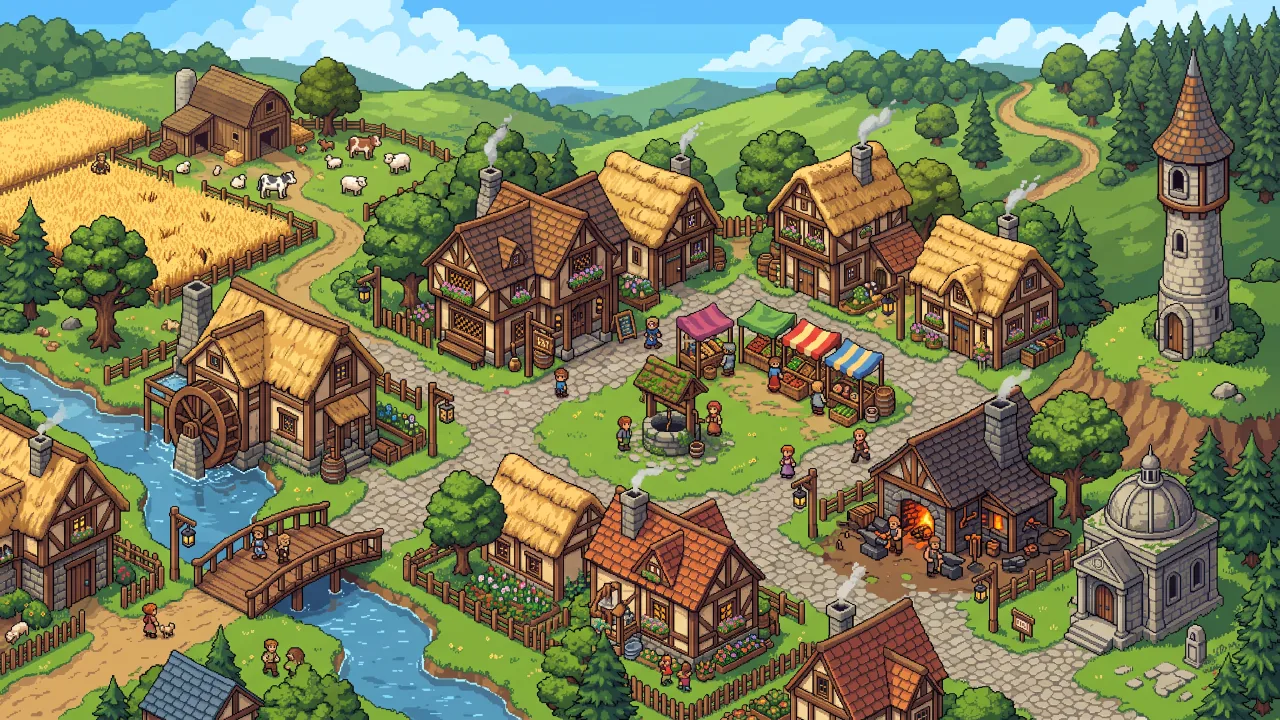
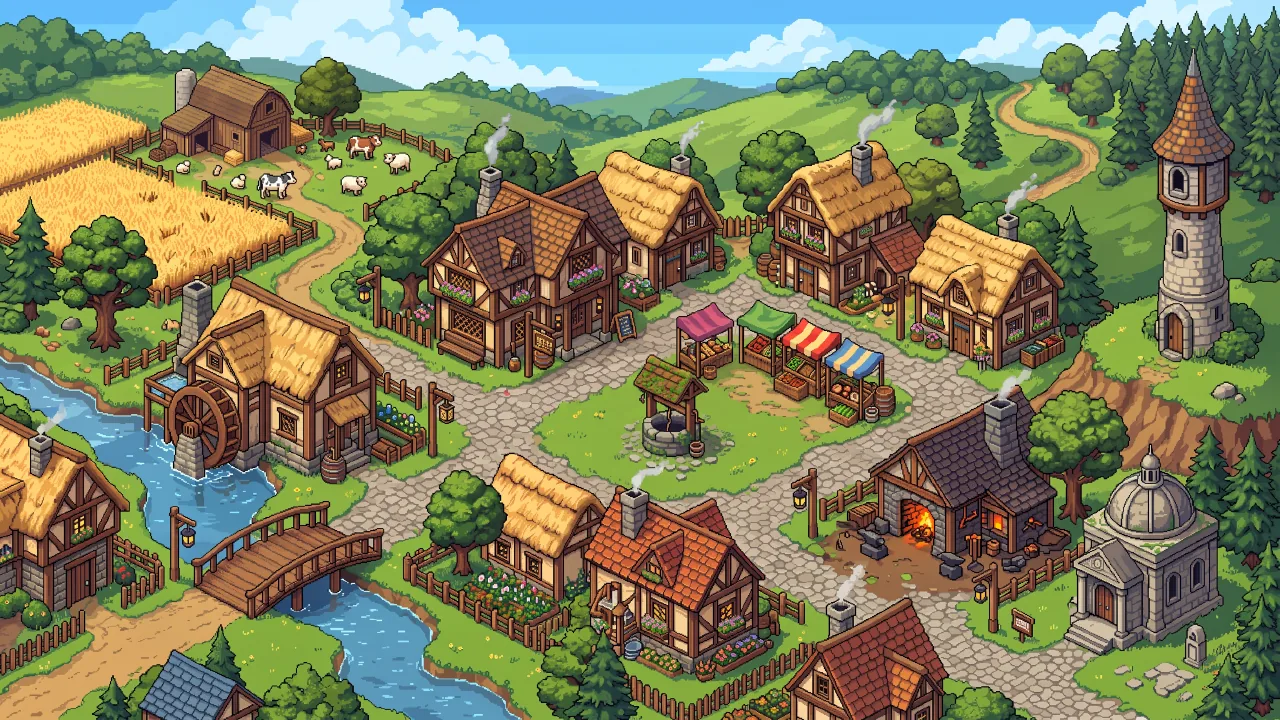
Gemheart Saga v1.3.0: villagers walk Briarwick instead of standing painted into the backdrop
The village backdrop is re-edited with fal without its painted villagers, and 15 villagers and
animals generated in the same style walk a graph of its lanes (js/folk.js, art/folk/): a walking
bob, facing where they go, and stops at the well, stalls, bridge, forge and temple to draw water,
browse, fish, warm up, pray or chat; the hen pecks, the cat sits, the dog sniffs. Each walker is
moved by transform only, sits under the UI, never takes a click, and runs only while the village
is on screen. simtest checks the sprites and sizes; browsertest that they move and stay under the
buttons.

Claude-Session: https://claude.ai/code/session_01Scowiw6PQomfdueh4EYvQL

diff --git a/game-128/js/folk.js b/game-128/js/folk.js
@@ -1,0 +1,174 @@
+// Gemheart Saga — Briarwick's villagers (v1.2.2): small sprites that walk the lanes of the village backdrop, stop at
+// the well, the stalls, the bridge and the forge to do things, and chat. Pure decoration: it never reads or changes G.
+//
+// The backdrop (art/bg/village.webp, 1280x720) is drawn with background-size: cover, so the walkers use the same
+// transform: image pixels -> screen. Each walker is one absolutely placed element moved only with transform, so the
+// compositor moves it and nothing repaints (the village once crawled under software rendering because of repaints).
+
+import { ART } from './assets.js';
+
+const IMG_W = 1280, IMG_H = 720;
+const PERSON_H = 36;              // a person's height in backdrop pixels: a little taller than the doorways read best
+const FOLK_PX = 96;               // the exported sprites' person height (dev/art/export.py FOLK_PX)
+// the exported sizes (art/sprites.json "folk-*"; simtest checks they match), and how much smaller than drawn on the
+// sheet each animal walks (the model drew them nearly as tall as people)
+export const FOLK_SIZE = { applewife: [47, 88], baker: [57, 91], cat: [54, 53], dog: [71, 57], elder: [51, 86], farmer: [69, 90],
+    fisherboy: [64, 88], flowergirl: [44, 82], goose: [49, 61], guard: [61, 96], hen: [55, 51], hoopchild: [48, 63],
+    milkmaid: [69, 89], monk: [60, 87], traveller: [61, 87], washerwoman: [50, 91] };
+const SHRINK = { dog: 0.62, goose: 0.55, hen: 0.42, cat: 0.5 };
+
+// The lanes: nodes in backdrop pixels, and which nodes join. Stations are where someone stops to do something.
+const NODES = {
+    bridgeW: [205, 606], bridge: [290, 568], bridgeE: [372, 528], plazaL: [430, 505], mid: [470, 468], mill: [412, 456],
+    lane: [482, 430], inn: [522, 372], upper: [648, 336], upperR: [860, 305], right: [920, 372], well: [598, 458],
+    stalls: [758, 420], plaza: [650, 470], center: [790, 505], forge: [842, 568], yard: [900, 575], temple: [985, 620],
+    steps: [1068, 690],
+};
+const EDGES = [['bridgeW', 'bridge'], ['bridge', 'bridgeE'], ['bridgeE', 'plazaL'], ['plazaL', 'mid'], ['mid', 'mill'],
+    ['mid', 'lane'], ['lane', 'inn'], ['inn', 'upper'], ['upperR', 'right'], ['right', 'center'],
+    ['mid', 'well'], ['lane', 'well'], ['well', 'plaza'], ['well', 'stalls'], ['stalls', 'plaza'], ['plaza', 'center'],
+    ['center', 'forge'], ['forge', 'yard'], ['yard', 'temple'], ['temple', 'steps']];
+const LINKS = {};
+for (const [a, b] of EDGES) { (LINKS[a] ||= []).push(b); (LINKS[b] ||= []).push(a); }
+// what people do at a station: [action, seconds, face (+1 right, -1 left)]
+const STATION = {
+    well: [['draw', 4, 1], ['chat', 3, -1]],
+    stalls: [['browse', 4, 1], ['chat', 3, -1]],
+    bridge: [['gaze', 4, -1]],
+    forge: [['warm', 3, 1]],
+    steps: [['pray', 4, 1]],
+    inn: [['chat', 3, 1]],
+    temple: [['gaze', 3, 1]],
+};
+// who walks: [sprite, kind, speed in backdrop px/s]
+const CAST = [['farmer', 'person', 16], ['applewife', 'person', 14], ['milkmaid', 'person', 12], ['hoopchild', 'child', 26],
+    ['elder', 'elder', 8], ['washerwoman', 'person', 13], ['guard', 'guard', 14], ['fisherboy', 'fisher', 17],
+    ['flowergirl', 'child', 18], ['monk', 'person', 11], ['baker', 'person', 15],
+    ['dog', 'dog', 34], ['goose', 'goose', 12], ['hen', 'hen', 9], ['cat', 'cat', 20]];
+const BUBBLES = { chat: ['…', '♪', 'Ha!', '♥', '?'], draw: ['~'], browse: ['$', '?'], pray: ['✦'], warm: ['♨'], gaze: ['…'], sniff: ['?'], sit: ['z'] };
+
+const rnd = (a, b) => a + Math.random() * (b - a);
+const pickOf = (arr) => arr[Math.floor(Math.random() * arr.length)];
+
+export class Folk {
+    constructor(layer) {
+        this.layer = layer;
+        this.walkers = [];
+        this.calm = false;
+        this.box = { s: 1, ox: 0, oy: 0 };
+        this.built = false;
+    }
+
+    build() {
+        if (this.built) return;
+        this.built = true;
+        const names = Object.keys(NODES);
+        CAST.forEach(([id, kind, speed], i) => {
+            const el = document.createElement('div');
+            el.className = 'walker';
+            const im = document.createElement('i');
+            im.style.backgroundImage = `url(${ART.folk(id)})`;
+            const bub = document.createElement('b');
+            bub.className = 'bub';
+            el.append(im, bub);
+            this.layer.append(el);
+            const at = names[(i * 5) % names.length];
+            const [x, y] = NODES[at];
+            const w = { id, kind, speed, el, im, bub, at, from: at, to: null, x: x + rnd(-6, 6), y: y + rnd(-3, 3), dir: Math.random() < 0.5 ? 1 : -1,
+                state: 'idle', t: rnd(0.5, 4), phase: Math.random() * 6, act: null, ox: rnd(-8, 8), oy: rnd(-4, 4) };
+            this.walkers.push(w);
+        });
+        this.resize();
+    }
+
+    /** The backdrop's cover transform for the current village size. */
+    resize() {
+        const r = this.layer.getBoundingClientRect();
+        const s = Math.max(r.width / IMG_W, r.height / IMG_H);
+        this.box = { s, ox: (r.width - IMG_W * s) / 2, oy: (r.height - IMG_H * s) / 2 };
+        const k = (PERSON_H / FOLK_PX) * s;
+        for (const w of this.walkers) {
+            const [sw, sh] = FOLK_SIZE[w.id];
+            const kk = k * (SHRINK[w.id] || 1);
+            w.im.style.width = `${Math.round(sw * kk)}px`;
+            w.im.style.height = `${Math.round(sh * kk)}px`;
+            w.bub.style.bottom = `${Math.round(sh * kk) + 2}px`;
+        }
+    }
+
+    next(w) {
+        const opts = (LINKS[w.at] || []).filter((n) => n !== w.from);
+        return pickOf(opts.length ? opts : LINKS[w.at]);
+    }
+
+    /** Arrived at a node: maybe stop and do something, else walk on. */
+    arrive(w) {
+        const animal = ['dog', 'goose', 'hen', 'cat'].includes(w.kind);
+        const st = STATION[w.at];
+        if (w.kind === 'fisher' && w.at === 'bridge') return this.idle(w, 'fish', rnd(6, 10), -1);
+        if (w.kind === 'guard' && Math.random() < 0.4) return this.idle(w, 'watch', rnd(3, 6), w.dir);
+        if (animal) {
+            if (w.kind === 'hen') return this.idle(w, 'peck', rnd(2, 5), w.dir);
+            if (w.kind === 'cat' && Math.random() < 0.5) return this.idle(w, 'sit', rnd(4, 9), w.dir);
+            if (w.kind === 'dog' && Math.random() < 0.4) return this.idle(w, 'sniff', rnd(1.5, 3), w.dir);
+            if (w.kind === 'goose' && Math.random() < 0.5) return this.idle(w, 'peck', rnd(2, 4), w.dir);
+        } else if (st && Math.random() < 0.65) {
+            const [act, secs, face] = pickOf(st);
+            return this.idle(w, act, rnd(secs * 0.7, secs * 1.5), face);
+        } else if (Math.random() < 0.25) return this.idle(w, Math.random() < 0.5 ? 'chat' : 'gaze', rnd(1.5, 3.5), w.dir);
+        this.walk(w);
+    }
+
+    idle(w, act, secs, face) {
+        w.state = 'idle'; w.act = act; w.t = secs; w.dir = face;
+        const b = BUBBLES[act];
+        if (b && Math.random() < 0.7) { w.bub.textContent = pickOf(b); w.bub.classList.add('on'); }
+    }
+
+    walk(w) {
+        w.state = 'walk'; w.act = null;
+        w.bub.classList.remove('on');
+        w.to = this.next(w);
+        w.ox = rnd(-8, 8); w.oy = rnd(-4, 4);         // not everyone on the same line down a lane
+    }
+
+    frame(dt) {
+        if (!this.built) return;
+        dt = Math.min(dt, 0.1);
+        const { s, ox, oy } = this.box;
+        for (const w of this.walkers) {
+            w.phase += dt;
+            if (w.state === 'idle') {
+                w.t -= dt;
+                if (w.t <= 0) this.walk(w);
+            } else {
+                const [tx, ty] = NODES[w.to];
+                const gx = tx + w.ox, gy = ty + w.oy;
+                const dx = gx - w.x, dy = gy - w.y, d = Math.hypot(dx, dy);
+                const v = w.speed * (this.calm ? 0.6 : 1) * dt;
+                if (Math.abs(dx) > 0.5) w.dir = dx > 0 ? 1 : -1;
+                if (d <= v) { w.x = gx; w.y = gy; w.from = w.at; w.at = w.to; this.arrive(w); }
+                else { w.x += dx / d * v; w.y += dy / d * v; }
+            }
+            // the little animations: a step bob while walking; a dip for pecking and drawing water; a sway while chatting
+            let bob = 0, rot = 0, sy = 1;
+            if (!this.calm) {
+                if (w.state === 'walk') {
+                    const f = w.kind === 'dog' || w.kind === 'child' ? 14 : w.kind === 'elder' ? 6 : 10;
+                    bob = -Math.abs(Math.sin(w.phase * f / 2)) * (w.kind === 'goose' ? 1.2 : 2);
+                    rot = Math.sin(w.phase * f / 2) * (w.kind === 'goose' ? 7 : 3);
+                } else if (w.act === 'peck' || w.act === 'draw' || w.act === 'sniff') {
+                    const p = Math.max(0, Math.sin(w.phase * (w.act === 'peck' ? 7 : 2.5)));
+                    rot = p * (w.act === 'peck' ? 18 : 6); sy = 1 - p * 0.06;
+                } else if (w.act === 'chat' || w.act === 'browse') rot = Math.sin(w.phase * 3) * 2.5;
+                else if (w.act === 'fish') rot = Math.sin(w.phase * 1.3) * 3;
+                else if (w.act === 'sit') sy = 0.9;
+            }
+            const px = ox + w.x * s, py = oy + w.y * s + bob * s;
+            w.el.style.transform = `translate3d(${px.toFixed(1)}px, ${py.toFixed(1)}px, 0)`;
+            w.im.style.transform = `translateX(-50%) scaleX(${w.dir}) rotate(${rot.toFixed(1)}deg) scaleY(${sy})`;
+            const z = Math.round(w.y);
+            if (z !== w.z) { w.z = z; w.el.style.zIndex = String(z); }
+        }
+    }
+}

diff --git a/game-128/style.css b/game-128/style.css
@@ -138,6 +138,15 @@ td:first-child { color: var(--gold); white-space: nowrap; padding-right: 10px; }
 .village { padding: 0; display: block; background: #0d0a14; overflow: hidden; }
 /* darkened with a gradient layer, not `filter`: a full-screen filter is re-rasterised every frame while the canvas animates */
 .village-bg { position: absolute; inset: 0; background: linear-gradient(rgba(0, 0, 0, 0.28), rgba(0, 0, 0, 0.28)), url(art/bg/village.webp) center / cover no-repeat; image-rendering: pixelated; }
+/* the villagers walking the backdrop (js/folk.js): moved by transform only, so nothing repaints (v1.2.2) */
+.folk { position: absolute; inset: 0; overflow: hidden; pointer-events: none; z-index: 0; }   /* its own stacking context: under the UI */
+.walker { position: absolute; left: 0; top: 0; will-change: transform; }
+.walker i { position: absolute; left: 0; bottom: 0; background-size: 100% 100%; transform-origin: 50% 100%; }
+.walker .bub {
+    position: absolute; left: 0; transform: translateX(-50%) scale(0.6); opacity: 0; transition: opacity 0.25s, transform 0.25s;
+    background: #fff8e6; color: #3a2410; border: 1px solid #3a2410; border-radius: 8px; padding: 0 5px; font-size: 11px; font-weight: 800; line-height: 15px; white-space: nowrap;
+}
+.walker .bub.on { opacity: 1; transform: translateX(-50%) scale(1); }
 .res-bar {
     position: absolute; top: calc(8px + var(--safe-t)); left: calc(108px + var(--safe-l)); right: calc(60px + var(--safe-r));
     display: flex; flex-wrap: wrap; gap: 6px; z-index: 2;

diff --git a/game-128/js/main.js b/game-128/js/main.js
@@ -32,10 +32,11 @@ const view = new BattleView(document.getElementById('view'), {
 view.calm = !!settings.calm || window.matchMedia?.('(prefers-reduced-motion: reduce)').matches;
 const ui = new UI({
     audio, settings, cmd: (c) => cmd(c), now, G: () => G,
-    onSettings: (s) => { saveSettings(s); audio.setVolumes(s.sfx, s.music, s.voice); view.calm = !!s.calm; },
+    onSettings: (s) => { saveSettings(s); audio.setVolumes(s.sfx, s.music, s.voice); view.calm = !!s.calm; ui.folk.calm = !!s.calm; },
     onDeleteSave: () => { clearSave(); refreshTitle(); },
     onTitle: () => toTitle(),
 });
+ui.folk.calm = view.calm;
 
 let G = null;
 let acc = 0;
@@ -272,6 +273,11 @@ function frame(nowMs) {
         ui.hud(G);
         ui.placeHud(view.layout);
     } else view.frame({ battle: null }, dt, time);
+    // the villagers walk while Briarwick is on top (built the first time it shows, so its size is known)
+    if (G && G.mode === 'village' && ui.top() === 'village') {
+        if (!ui.folk.built) ui.folk.build();
+        ui.folk.frame(dt);
+    }
     if (G && G.mode === 'village' && Math.floor(time) !== Math.floor(time - dt) && ui.top() === 'village') {
         ui.renderVillage(G);
         ui.ticker.tick(G, 1, now(), ui.today());

diff --git a/game-128/js/ui.js b/game-128/js/ui.js
@@ -12,6 +12,7 @@ import * as St from './sim/stats.js';
 import { chapter, regionsOpen, actives, learnBlock, tale } from './sim/game.js';
 import { canSkill, canItem } from './sim/battle.js';
 import { Ticker } from './ticker.js';
+import { Folk } from './folk.js';
 
 const $ = (id) => document.getElementById(id);
 const h = (tag, cls = '', html = '') => { const e = document.createElement(tag); if (cls) e.className = cls; if (html) e.innerHTML = html; return e; };
@@ -30,6 +31,9 @@ export class UI {
         this.now = now;
         this.G = G;
         this.ticker = new Ticker(this, $('ticker'));
+        this.folk = new Folk($('folk'));
+        this.folk.calm = !!settings.calm;
+        window.addEventListener('resize', () => this.folk.resize());
         this.stack = [];
         this.panel = null;                 // { kind, id, tab, sel }
         this.typing = null;

diff --git a/js/gamedata.js b/js/gamedata.js
@@ -193,7 +193,7 @@ const games = [
         description: 'A cozy flower shop sim — buy seeds, grow blooms in your pots, and sell them for gold. Upgrade your pots and soil to grow rarer flowers faster. Low stakes, endlessly relaxing.',
         icon: '🌷',
         folder: 'game-013',
-        version: '1.2.1',
+        version: '1.3.0',
         cssClass: 'petal-purse',
         genre: 'cozy',
         tags: [

diff --git a/game-128/index.html b/game-128/index.html
@@ -95,6 +95,7 @@
     <!-- ============================================================ village -->
     <div id="village" class="screen village" hidden>
         <div class="village-bg"></div>
+        <div class="folk" id="folk" aria-hidden="true"></div>
         <header class="res-bar" id="res-bar"></header>
         <div class="village-main">
             <section class="v-left">

diff --git a/game-128/js/assets.js b/game-128/js/assets.js
@@ -22,6 +22,7 @@ export const ART = {
     icons: (sheet) => `art/icons/${sheet}.webp`,
     skills: (hero) => `art/skills/${hero}.webp`,
     buildings: 'art/buildings.webp',
+    folk: (id) => `art/folk/${id}.webp`,
 };
 
 /** Put a cell of a cols x rows atlas on an element as its background. */

diff --git a/game-128/js/config.js b/game-128/js/config.js
@@ -1,6 +1,6 @@
 // Gemheart Saga — tuning and constants. Shared by the sim, the view and the tests.
 
-export const VERSION = '1.2.1';
+export const VERSION = '1.3.0';
 export const SAVE_KEY = 'gemheart-saga.v1';
 
 export const STEP = 1 / 60;               // fixed simulation step (s)

diff --git a/game-128/dev/art/export.py b/game-128/dev/art/export.py
@@ -36,6 +36,10 @@ REGIONS = ['greenmarch', 'mirefen', 'emberdeep', 'frostfang', 'gloamspire']
 ICON_SHEETS = ['gems', 'gear', 'goods', 'misc']
 # Monsters stand on the right of the battle scene and must face LEFT; heroes stand on the left and face RIGHT.
 # The model ignored the direction for these; they were found by eye on the labelled contact sheet and are mirrored.
+# The villagers who walk Briarwick (v1.2.2): a 4x4 sheet in this order, all facing right, all at one scale.
+FOLK = ['farmer', 'applewife', 'milkmaid', 'hoopchild', 'elder', 'washerwoman', 'guard', 'fisherboy',
+        'flowergirl', 'monk', 'traveller', 'baker', 'dog', 'goose', 'hen', 'cat']
+FOLK_PX = 96                  # the tallest person's height; everything on the sheet keeps its relative size
 FLIP = {'mon/wolf', 'mon/hound', 'mon/kobold', 'mon/leech', 'mon/hornet', 'mon/lizard', 'mon/troll', 'mon/toad'}
 
 # longest side, in art pixels. Battle sprites are kept at about twice the size they are drawn at (v1.1.0): drawn
@@ -275,6 +279,14 @@ def main(raw):
             tile = img.crop((x0 + inset, y0 + inset, x0 + w // 3 - inset, y0 + hh // 3 - inset)).resize((C, C), Image.BOX)
             atlas.paste(tile, ((i % 3) * C, (i // 3) * C))
         save(atlas, f'skills/{h}.webp', q=86)
+    # villagers: one scale for the whole sheet, so a hen stays smaller than a guard
+    if have('sheet-villagers.png'):
+        cuts = [trim(cutout(cell, focus)) for cell, focus in grid_cells(op('sheet-villagers.png'), 4, 4, margin=0.04)]
+        k = FOLK_PX / max(c.height for c in cuts[:12])
+        for name, c in zip(FOLK, cuts):
+            sp = c.resize((max(1, round(c.width * k)), max(1, round(c.height * k))), Image.BOX)
+            save(sp, f'folk/{name}.webp')
+            meta['sprites']['folk-' + name] = [sp.width, sp.height]
     with open(os.path.join(OUT, 'sprites.json'), 'w') as fh:
         json.dump(meta, fh, indent=0, sort_keys=True)
     print('wrote', OUT)

diff --git a/status.md b/status.md
@@ -132,7 +132,7 @@ Completion audit of all games in this repo, based on each game's own game-plan.m
 | [game-125](game-125/index.html) | SEEDFALL | **Solid** | v1.0.1. TILLY now always faces you (billboards turn from their world position). A narrative first-person HD-2D sci-fi adventure in three.js r165 with idle terraforming, in the sim/view layout. A pure sim ([js/sim/](game-125/js/sim/)): a walkable crew deck ([layout.js](game-125/js/sim/layout.js)), a year clock that runs research, vats, harvesters and colonies on game days ([station.js](game-125/js/sim/station.js)), first-person bot drops onto six seeded zones whose creatures, hazards and plants follow how far each zone has been terraformed ([zonegen.js](game-125/js/sim/zonegen.js), [mission.js](game-125/js/sim/mission.js)), 23 genomes blended into strains scored against each zone's niche ([genetics.js](game-125/js/sim/genetics.js)), six bot generations, 25 research projects, VESPER's five black boxes, the Rootmother and a Purge/Concord choice, four endings, and a story told by TILLY in plain-data scenes ([story.js](game-125/js/sim/story.js)). The view draws every sprite with game-093's pixel painter as lit billboards under bloom, tilt-shift and a grade; the station's walls come from the same layout the sim walks. The DOM layer adds painted art generated with fal ([art/](game-125/art/README.md)): title key art, TILLY in five moods, VESPER, six zone cards and four ending illustrations. [simtest.mjs](game-125/dev/simtest.mjs) (purity, data reachability, a flood fill of the deck, every rule and ending, 360 zones proved reachable, round trips mid-mission and mid-sentence, a fuzz the bot must finish from, whole bot years) and [browsertest.mjs](game-125/dev/browsertest.mjs) (desktop with real keys through a whole loop and the ending, two touch-only phones, blocked storage, pixels read back). Open: balance was tuned by a bot whose clumsy and perfect versions finish within a few weeks of each other, so the clock may bite a person much harder; combat is simple; only run under SwiftShader, not yet played on a real phone or GPU |
 | [game-126](game-126/index.html) | EMBERSPIRE | **Solid** | v1.0.8. Menu rows no longer squeeze their descriptions on phones. v1.0.7: A difficulty (Story, Standard, Hard) chosen at New Game and changeable in Settings. v1.0.6: The 🔊 speaker no longer stacks voices when tapped repeatedly. v1.0.5: Equip best and an auto-equip option on the party screen; a resumed battle plays its own music. v1.0.4: Auto, Climb and speed clicks no longer get lost mid-battle; Grubnak, Celestine and Thorne face the right way. v1.0.3: Town greetings play by themselves on the first 3 visits, then on a 🔊 by the portrait (a saved setting); v1.0.2: with Auto battle on, victory counts down 10 s and climbs on, never into a mini boss or boss; v1.0.1 put fighters on the floor. A 16-bit endless tower RPG in Canvas 2D and DOM, in the sim/view layout with a turn-based `act()` sim. A pure sim ([js/sim/](game-126/js/sim/)): charge-time turn-based battles with elements, statuses, boss enrage, auto battle and auto-climb ([battle.js](game-126/js/sim/battle.js)); an endless tower of ten strata with 70 monster designs, a mini boss every 5th floor and a boss every 10th, Ascended past 100 ([biomes.js](game-126/js/sim/data/biomes.js)); nine heroes, 27 classes, 108 skills, evolution and ascension ([heroes.js](game-126/js/sim/data/heroes.js)); gear with rarities, affixes, upgrades, reforging, 16 uniques and 8 keepsakes; the tavern, forge, market, guild, temple and treasury; 40 bond scenes; daily bounties and milestones; daily bonus, blessings, idle tithe and errands from real time passed in as numbers ([game.js](game-126/js/sim/game.js)). Art: 93 fal images cut out and downscaled to their native pixel grid ([dev/art/](game-126/dev/art/README.md)); audio: six music themes, 14 effects and 34 voice lines from ElevenLabs with a Web Audio synth fallback ([dev/audio/](game-126/dev/audio/README.md)). [simtest.mjs](game-126/dev/simtest.mjs) (880 checks: purity, art for every entity, every floor to 300, every rule, determinism and mid-battle round trips, a whole-game bot at two diligence levels with balance bands) and [browsertest.mjs](game-126/dev/browsertest.mjs) (desktop with real keys through a climb, an evening and a save, the generated audio playing, two touch-only phones, blocked storage). Open: balance was tuned by a bot and past floor 70 is extrapolated; not yet played by a person or on a real phone; voice-line cuts checked by length, not by ear |
 | [game-127](game-127/index.html) | The First Dragon Prince | **Solid** | v1.1.0. Expeditions show a painted creature for each of the 36 dangers and masters, reacting to each outcome. v1.0.1: The dialogue box shows after the month's last result (v1.0.0 left a blank backdrop when a month opened with a story scene). A raising sim with visual novel scenes in DOM, in the sim/view layout. A pure seeded sim ([js/sim/](game-127/js/sim/)): the month (Free Day, a three-period plan, periods with stress, illness and rebellion), 12 lessons, 13 jobs, 29 quests, 6 expedition regions of four encounters, a festival and Starfall Night, six friends with four heart scenes each and a betrothal, 15 story scenes run by a script runner, and 18 endings chosen from stat minimums. A route bot reaches its own ending on 15 of 16 routes (3/3 seeds) and the diplomat on 1/3. Art from fal (28 backdrops, 68 CGs, 28 vignettes, 41 portraits), music, effects and 501 voiced lines from ElevenLabs with a synth fallback. Album with cutscene replay, gallery, endings and music room; autosave plus three slots. simtest (803 checks) and browsertest (desktop, two touch phones, blocked storage) pass. |
-| [game-128](game-128/index.html) | Gemheart Saga | **Solid** | v1.2.1. A match-3 fantasy RPG in Canvas 2D and DOM, in the sim/view layout. A pure seeded sim ([js/sim/](game-128/js/sim/)): a real-time 8x8 board where gems fall and match while the player keeps swapping (cascades, line, bomb and prism gems, stone, chains, doom gems), one foe at a time with a timer and cycling abilities, three skills and items; four heroes with their own ten-chapter tales (40 scenes, two tale shapes, a nemesis each, four endings) and three-branch skill trees; 24 pieces of gear with Armory upgrades; nine village buildings with idle production on the real clock, a daily gift with a streak and a harvest festival, sixteen requests, patrols. The bot finishes all four tales at skill 1 (0 falls, 8–9 s fights) and at skill 0.6 (0–4 falls, 19–25 s fights); a skill-0 bot clears chapter 1. v1.1.1: the first two chapters are gentler and the hero catches their breath between fights. v1.1.2: one clear style for pressable and unavailable buttons. v1.2.0: foe abilities are warned before and flagged when they land, skills bounce as they fill, a villager ticker with hints, resource tips, Equip best / Remove all, a Collect countdown, Battle n/m cards. v1.2.1: the ticker varies its lines and never repeats one on screen. v1.1.0: smaller, smoothly scaled battle sprites, slower foe attacks, green action badges on buttons, outlined gems and battle HUD text. Art from fal (46 images), music, 20 effects and 37 voiced lines from ElevenLabs with a tone fallback. simtest (purity, board, battle, village, story, media, determinism, four campaigns × two skills) and browsertest (desktop, two touch-only phones, blocked storage) pass. Open: balance is bot-derived and the game has only run under SwiftShader; the board's feel under a real finger and the length of late fights need a human pass. |
+| [game-128](game-128/index.html) | Gemheart Saga | **Solid** | v1.3.0. A match-3 fantasy RPG in Canvas 2D and DOM, in the sim/view layout. A pure seeded sim ([js/sim/](game-128/js/sim/)): a real-time 8x8 board where gems fall and match while the player keeps swapping (cascades, line, bomb and prism gems, stone, chains, doom gems), one foe at a time with a timer and cycling abilities, three skills and items; four heroes with their own ten-chapter tales (40 scenes, two tale shapes, a nemesis each, four endings) and three-branch skill trees; 24 pieces of gear with Armory upgrades; nine village buildings with idle production on the real clock, a daily gift with a streak and a harvest festival, sixteen requests, patrols. The bot finishes all four tales at skill 1 (0 falls, 8–9 s fights) and at skill 0.6 (0–4 falls, 19–25 s fights); a skill-0 bot clears chapter 1. v1.1.1: the first two chapters are gentler and the hero catches their breath between fights. v1.1.2: one clear style for pressable and unavailable buttons. v1.2.0: foe abilities are warned before and flagged when they land, skills bounce as they fill, a villager ticker with hints, resource tips, Equip best / Remove all, a Collect countdown, Battle n/m cards. v1.2.1: the ticker varies its lines and never repeats one on screen. v1.3.0: the village backdrop is empty and 15 villagers and animals walk its lanes, stopping at the well, stalls, bridge, forge and temple. v1.1.0: smaller, smoothly scaled battle sprites, slower foe attacks, green action badges on buttons, outlined gems and battle HUD text. Art from fal (46 images), music, 20 effects and 37 voiced lines from ElevenLabs with a tone fallback. simtest (purity, board, battle, village, story, media, determinism, four campaigns × two skills) and browsertest (desktop, two touch-only phones, blocked storage) pass. Open: balance is bot-derived and the game has only run under SwiftShader; the board's feel under a real finger and the length of late fights need a human pass. |
 
 ## Key takeaways
 

diff --git a/game-128/dev/art/README.md b/game-128/dev/art/README.md
@@ -38,6 +38,32 @@ exported small sprites and blew them up with nearest-neighbour scaling, which lo
 | `icons-gems/gear/goods/misc` (4x4, 2K) | `icons/*.webp` (4x4 atlases of 64 px; `gems` and `misc` 128 px) | The board pieces are in `gems` (sword, heart, ruby, sapphire, amethyst, prism, stone, doom, chains…); the emerald is cell 5 of `misc` (see below). |
 | `skills-<hero>` ×4 (3x3, 2K) | `skills/<hero>.webp` (3x3 atlas of 96 px) | Painted square tiles, no cut-out; one per skill-tree node in tree order. The prompts are `SKILL_ART` in `prompts.mjs`. |
 
+## Briarwick's walking villagers (v1.3.0)
+
+The first village backdrop had villagers painted in, standing still. Two edits with `fal-ai/nano-banana-2/edit` (2K),
+both given the original `bg-village.png` as their image:
+
+- **The empty village** (`bg-village.png`; the original is kept as `bg-village-with-people.png`), two takes, the second
+  kept (the first left a farmer in the wheat field):
+  > Edit this pixel-art village illustration: remove every person (all villagers, the blacksmith at the forge, people on
+  > the bridge, on the paths, at the market stalls, by the well and in the gardens) and the small loose animals walking on
+  > the paths (dogs, chickens, the small animal by the bridge). Fill each spot with whatever is naturally behind it:
+  > cobblestones, grass, bridge planks, path dirt, market stall counters. Keep the cows and sheep inside the fenced farm
+  > pen. Keep absolutely everything else identical: every building, roof, tree, the river, the bridge, the water mill, the
+  > well, the market stalls and their goods, the forge fire, the temple, the tower, the fields, the fences, the
+  > composition, the camera angle, the colours, the lighting and the crisp 32-bit pixel art style. Do not add anything
+  > new. No text.
+- **The villagers** (`sheet-villagers.png`, 1:1): "Using exactly the art style, pixel scale, palette and lighting of the
+  villagers in this village illustration, draw a sprite sheet: a 4 by 4 grid of sixteen separate tiny full-body
+  characters … all facing to the RIGHT, mid-stride walking pose", then the sixteen in `FOLK` order (farmer with a hoe,
+  woman with apples, milkmaid with pails, child with a hoop, old man with a cane, washerwoman, guard with a spear, boy
+  with a fishing rod, girl with flowers, monk with a lantern, traveller, baker; dog, goose, hen, cat), "on a perfectly
+  flat solid pure magenta (#FF00FF) background".
+
+`export.py` cuts the sheet like the others and scales all sixteen by one factor (the tallest person to 96 px), so they
+keep their sizes relative to each other; `js/folk.js` shrinks the animals further (the model drew them nearly as tall as
+people). The hoop came off the running child as a separate piece; he runs without it. 16 files, 132 KB.
+
 ## What went wrong, and what the export does about it
 
 - **Key colours vs gem colours.** A magenta key eats violet and pink; a green key eats emerald. So the gem sheet went on

diff --git a/CHANGELOG.md b/CHANGELOG.md
@@ -8,6 +8,7 @@ and this project adheres to [Semantic Versioning](https://semver.org/spec/v2.0.0
 ## [Unreleased]
 
 ### Added
+- **Gemheart Saga** (game-128) v1.3.0: Briarwick comes alive. The village backdrop had its villagers painted in, standing still; it was re-edited with fal without them, and 15 villagers and animals generated in the same style now walk its lanes ([folk.js](game-128/js/folk.js), [art/folk/](game-128/art/folk/)). They bob as they walk and turn to face where they're going, and stop to do things: draw water at the well, browse the stalls, fish off the bridge, warm up at the forge, pray at the temple, or stop for a chat (with a speech bubble). The hen pecks, the cat sits, the dog sniffs about, the goose waddles. Each walker is moved by transform only, so nothing repaints; they stay under the buttons and never take a click, slow down with Reduce motion, and run only while the village is on screen. Prompts and pipeline in [dev/art/README.md](game-128/dev/art/README.md); [simtest](game-128/dev/simtest.mjs) checks every sprite and its size, [browsertest](game-128/dev/browsertest.mjs) that they move and stay under the buttons. Asked for by a player.
 - **Gemheart Saga** (game-128) v1.2.0, from player feedback:
   - Foe abilities are telegraphed: under the attack timer the foe shows what its next attack brings ("Next: Chains"); a boxed warning flashes as the timer runs low; when it lands, a boxed alert says what happened and what to do, the gems it touched are ringed, and a status line counts chained and stone gems, the doom countdown, the foe's shield and poison ([battle.js view](game-128/js/view/battle.js), `abilityOn`/`nextAbility` in [sim/battle.js](game-128/js/sim/battle.js)).
   - A skill bounces when a match feeds mana it needs ([ui.js](game-128/js/ui.js), [style.css](game-128/style.css)).
